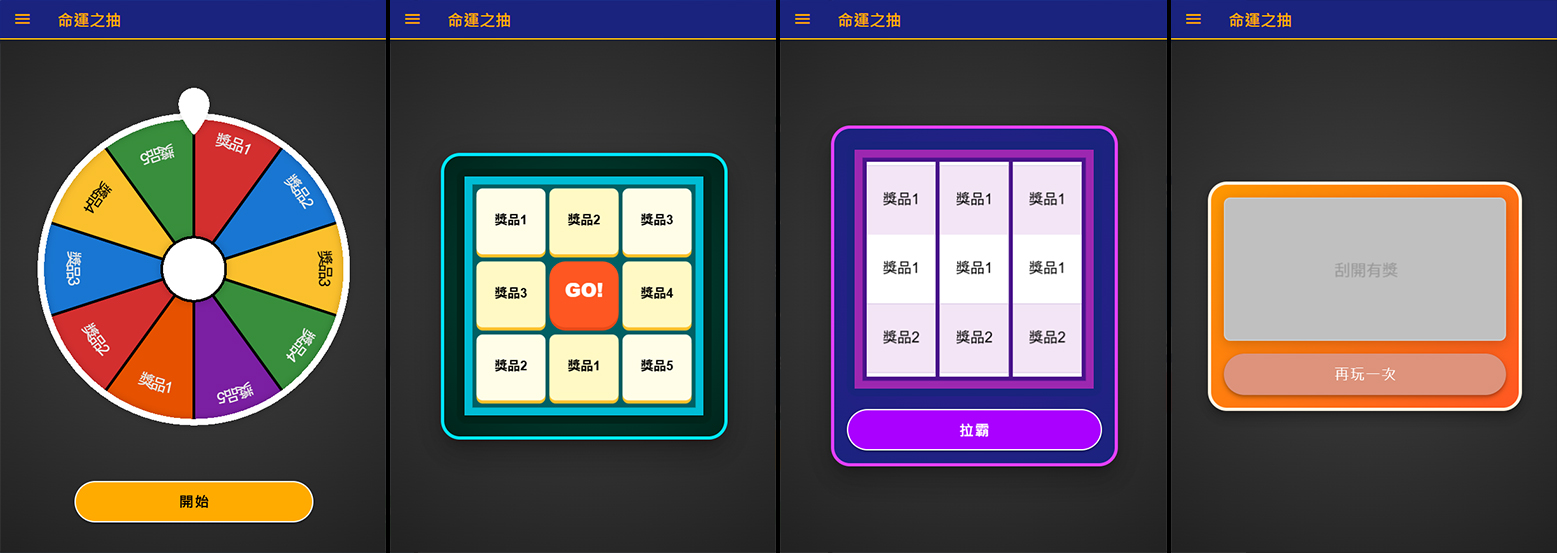
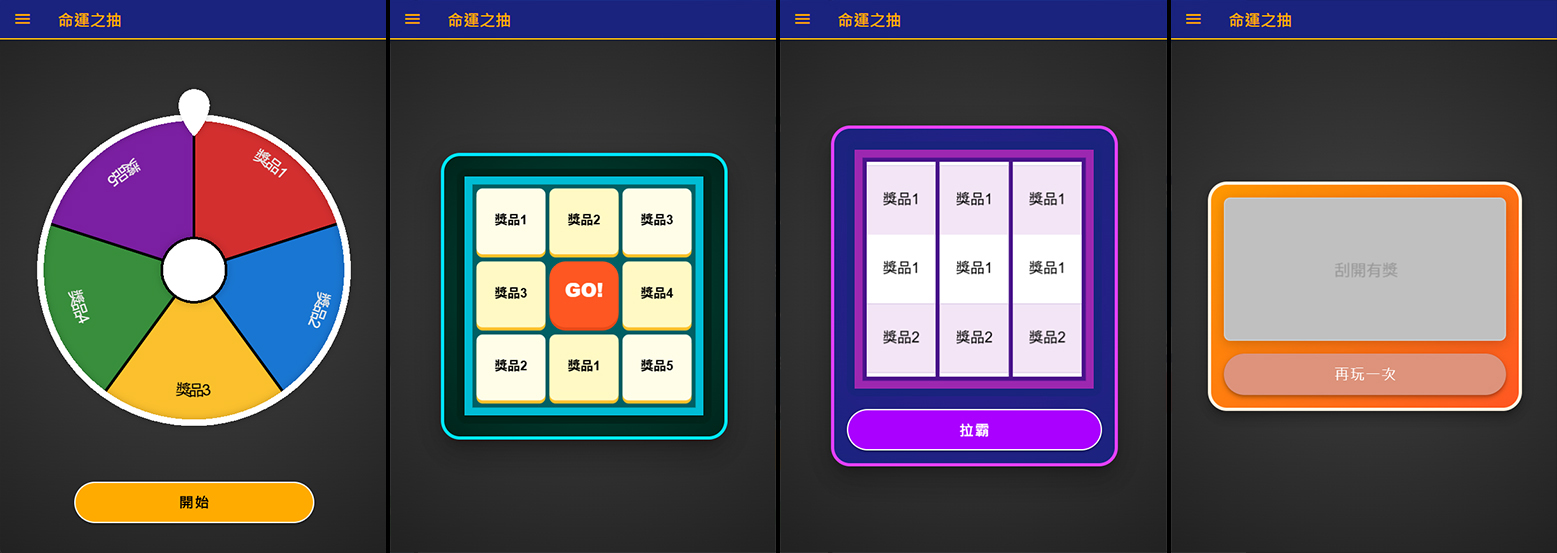
fix: prevent duplicate awards from rendering and enhance color palette cycling

Changed region(s): [[0.0, 0.1844, 0.2466, 0.7685], [0.0617, 0.8608, 0.2158, 0.953], [0.0308, 0.0307, 0.0925, 0.0615]]

diff --git a/src/views/Wheel.vue b/src/views/Wheel.vue
@@ -21,7 +21,7 @@ v-container.d-flex.flex-column.align-center.justify-center.pa-0
 
   v-dialog(v-model="showResult" max-width="320" persistent)
     v-card.rounded-xl.pa-4.result-card
-      v-card-title.text-center.text-h5.font-weight-bold.text-amber 中獎了！
+      v-card-title.text-center.text-h5.font-weight-bold.text-amber 恭喜
       v-card-text.text-center.py-6
         div.text-h4.font-weight-black.text-white {{ resultPrizeName }}
       v-card-actions.justify-center
@@ -56,7 +56,13 @@ const colors = [
   { bgColor: '#fbc02d', color: '#000000' }, // Gold
   { bgColor: '#388e3c', color: '#ffffff' }, // Green
   { bgColor: '#7b1fa2', color: '#ffffff' }, // Purple
-  { bgColor: '#e65100', color: '#ffffff' }  // Orange
+  { bgColor: '#e65100', color: '#ffffff' }, // Orange
+  { bgColor: '#00838f', color: '#ffffff' }, // Teal
+  { bgColor: '#5d4037', color: '#ffffff' }, // Brown
+  { bgColor: '#455a64', color: '#ffffff' }, // Blue Grey
+  { bgColor: '#c2185b', color: '#ffffff' }, // Pink
+  { bgColor: '#303f9f', color: '#ffffff' }, // Indigo
+  { bgColor: '#afb42b', color: '#000000' }  // Lime
 ]
 
 const wheelData = computed(() => {
@@ -64,11 +70,10 @@ const wheelData = computed(() => {
   if (storePrizes.length === 0) return []
 
   const data = []
-  const displayCount = storePrizes.length < 6 ? storePrizes.length * 2 : storePrizes.length
-
-  for (let i = 0; i < displayCount; i++) {
+  for (let i = 0; i < storePrizes.length; i++) {
     const p = storePrizes[i % storePrizes.length]
-    const colorSet = colors[i % colors.length]
+    const offset = i >= colors.length ? 1 : 0
+    const colorSet = colors[(i + offset) % colors.length]
     data.push({
       id: i + 1,
       value: p.name,
